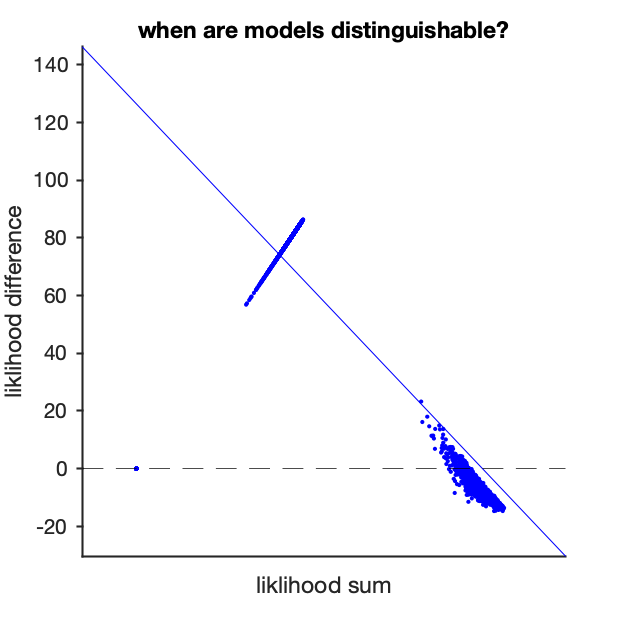
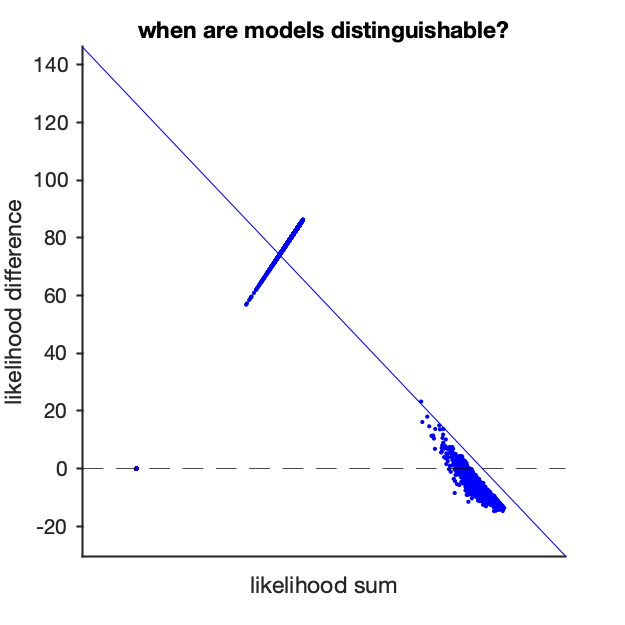
figure typo

Changed region(s): [[0.3952, 0.912, 0.6384, 0.9728], [0.0, 0.304, 0.0608, 0.6688]]

diff --git a/validate_models.m b/validate_models.m
@@ -250,8 +250,8 @@ f_modelLikComp = figure('Renderer', 'painters', 'Position', [0 0 300 300]); hold
 plot(log(lik_538_538) + log(lik_Econ_538), log(lik_538_538) - log(lik_Econ_538),  '.b'); lsline;
 yline(0, '--k')
 xticks([])
-xlabel('liklihood sum')
-ylabel('liklihood difference')
+xlabel('likelihood sum')
+ylabel('likelihood difference')
 title('when are models distinguishable?')
 set(gca, 'TickDir', 'out', 'LineWidth', 1)
 
